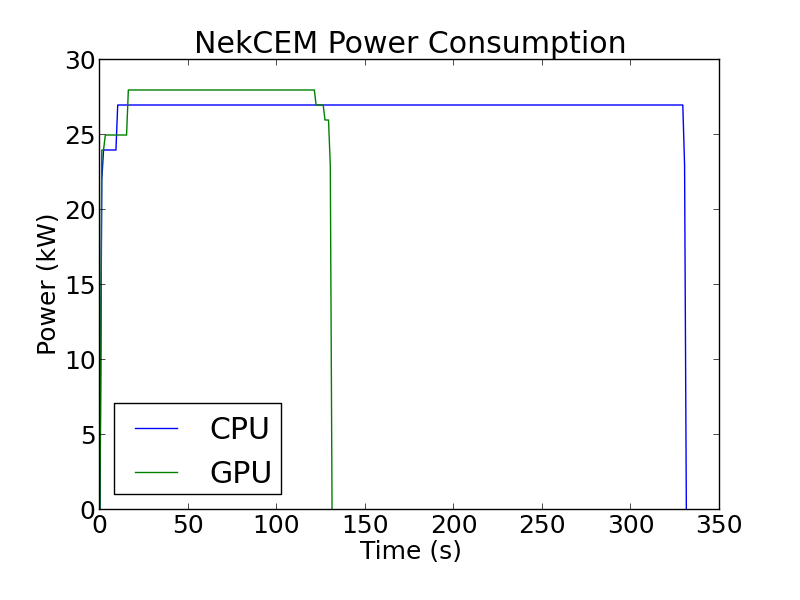
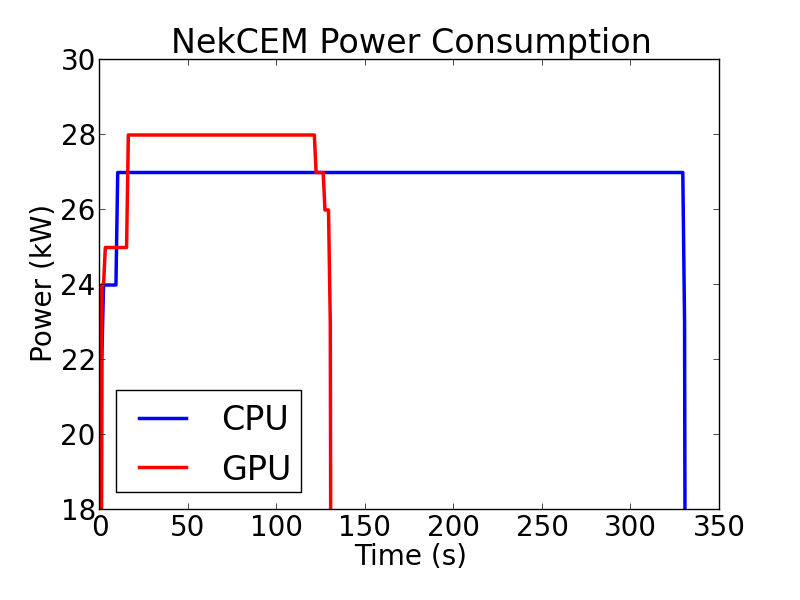
Modified powerPlot with baseline data.
git-svn-id: https://svn.mcs.anl.gov/repos/NEKCEM/trunk@1967 df63514b-fc50-0410-8a93-94e60f5a2dad

Former-commit-id: 9a51dc8ae344bf364b91f9784e7d66901cfb11fd

diff --git a/examples/gpu_scale/data/powerPlot.py b/examples/gpu_scale/data/powerPlot.py
@@ -13,7 +13,7 @@ saveIn=int(saveIn)
 
 plt.gcf().subplots_adjust(bottom=0.15)
 #!!! Change font here
-plt.rcParams.update({'font.size': 18})
+plt.rcParams.update({'font.size': 20})
 
 #!!! Change file type here
 fileExtension='.png'
@@ -38,13 +38,13 @@ data[9511,3] = 0.0
 data2[9976,3] = 0.0
 data2[9511,3] = 0.0
 #plot data
-plt.plot(cpu,data[9645:9977,3]+data2[9645:9977,3],label='CPU')
-plt.plot(gpu,data[9380:9512,3]+data2[9380:9512,3],label='GPU')
+plt.plot(cpu,data[9645:9977,3]+data2[9645:9977,3],label='CPU',color='blue',linewidth=2.5)
+plt.plot(gpu,data[9380:9512,3]+data2[9380:9512,3],label='GPU',color='red',linewidth=2.5)
 plt.title('NekCEM Power Consumption')
 plt.xlabel('Time (s)')
 plt.ylabel('Power (kW)')
 plt.legend(loc='lower left')
-plt.ylim(0,30)
+plt.ylim(18,30)
 
 save='plots/powerConsumption'
 if saveIn == 0:
